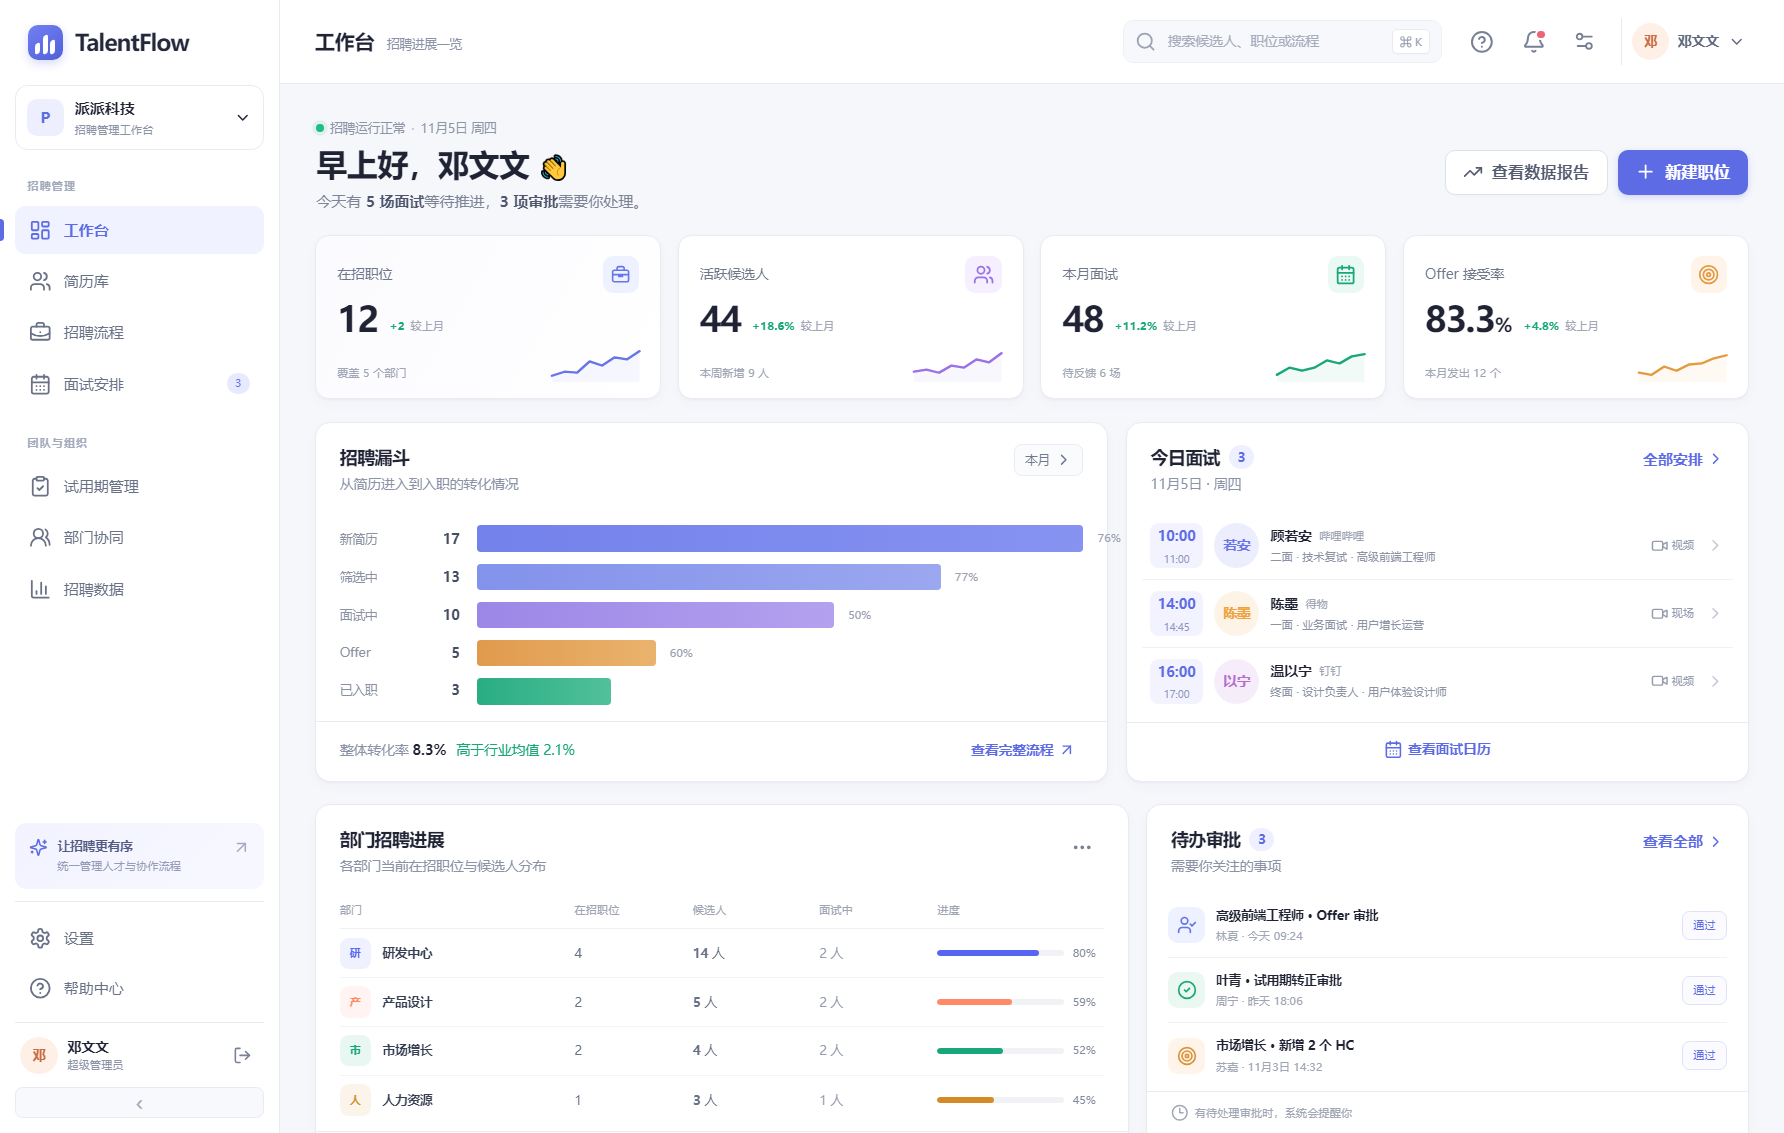
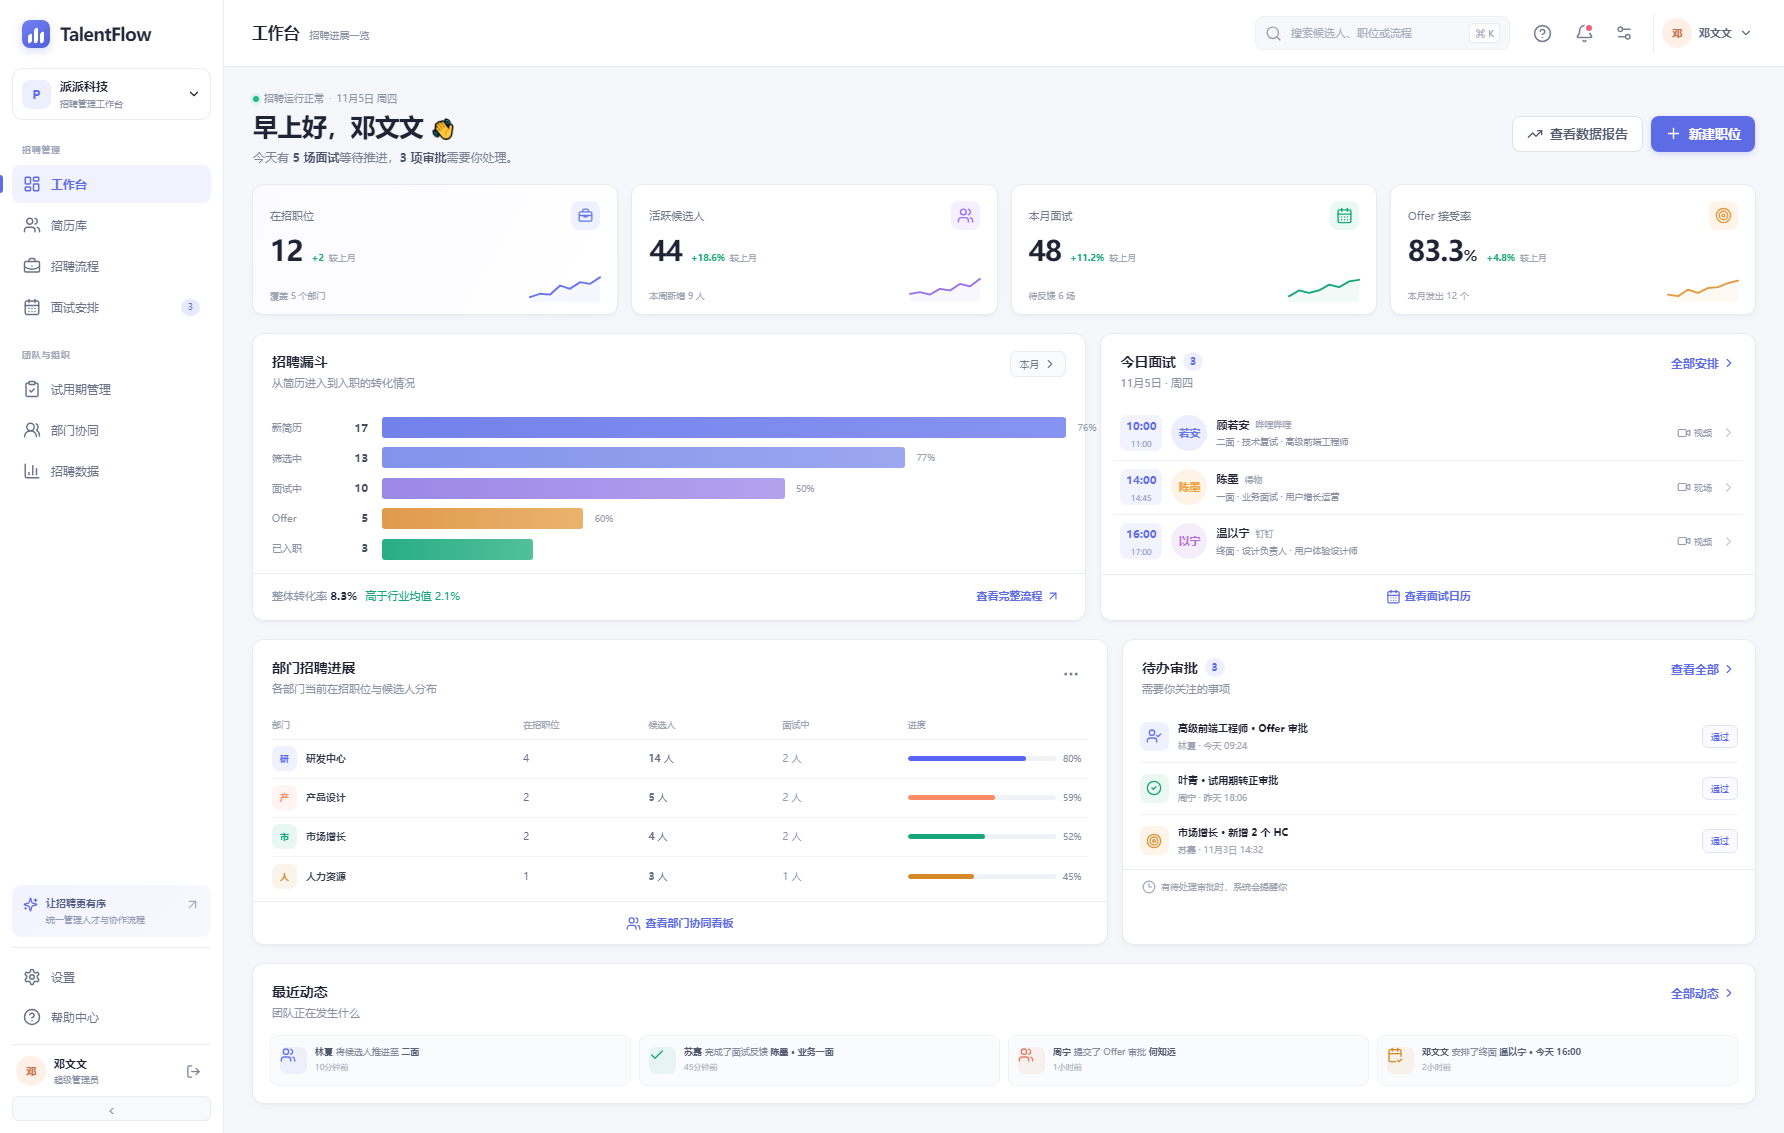
chore: finalize TalentFlow demo documentation

diff --git a/src/pages/Team.tsx b/src/pages/Team.tsx
@@ -14,7 +14,7 @@ export function Team({ onOpenCandidate }: TeamProps) {
   const dept = getDepartment(activeDept)!
   const deptCandidates = data.candidates.filter(c => c.departmentId === activeDept)
   const deptJobs = jobs.filter(j => j.departmentId === activeDept)
-  const members = [{name:'陈屿', role:'研发负责人', email:'chenyu@papa360.com', status:'在线', color:'#4D91D9'},{name:'林夏', role:'高级招聘专员', email:'linxia@papa360.com', status:'在线', color:'#D58A28'},{name:'唐越', role:'后端工程师', email:'tangyue@papa360.com', status:'忙碌', color:'#6675E8'},{name:'梁澄', role:'前端工程师', email:'liangcheng@papa360.com', status:'离线', color:'#19A77C'}]
+  const members = [{name:'陈屿', role:'研发负责人', email:'chenyu@example.com', status:'在线', color:'#4D91D9'},{name:'林夏', role:'高级招聘专员', email:'linxia@example.com', status:'在线', color:'#D58A28'},{name:'唐越', role:'后端工程师', email:'tangyue@example.com', status:'忙碌', color:'#6675E8'},{name:'梁澄', role:'前端工程师', email:'liangcheng@example.com', status:'离线', color:'#19A77C'}]
   return <div className="page-stack team-page">
     <div className="page-title-row"><div><div className="eyebrow">跨部门协作 <span className="eyebrow-separator">·</span> 5 个部门</div><h2>部门协同</h2><p>共享招聘进展，明确责任分工，让业务与 HR 同频决策。</p></div><div className="page-title-actions"><button className="button button-secondary" onClick={() => setShowInvite(true)}><UserPlus size={16} />邀请成员</button><button className="button button-primary"><Plus size={17} />新建部门</button></div></div>
 
@@ -47,5 +47,6 @@ export function Team({ onOpenCandidate }: TeamProps) {
 }
 
 function InviteModal({onClose,onInvite}:{onClose:()=>void;onInvite:()=>void}) {
-  return <div className="modal-backdrop" onMouseDown={onClose}><div className="modal" onMouseDown={e=>e.stopPropagation()}><div className="modal-header"><div><span className="modal-icon"><UserPlus size={18}/></span><div><h3>邀请协作成员</h3><p>邀请业务同事加入招聘协作</p></div></div><button className="icon-button" onClick={onClose}><X size={18}/></button></div><div className="modal-body"><label className="form-field"><span>成员邮箱</span><input placeholder="name@papa360.com" autoFocus/><small>支持输入多个邮箱，用逗号分隔</small></label><label className="form-field"><span>协作角色</span><select><option>面试官</option><option>招聘协作人</option><option>部门管理员</option></select></label><label className="form-field"><span>权限范围</span><select><option>仅查看分配给我的候选人</option><option>查看本部门全部候选人</option><option>查看全部候选人</option></select></label><div className="form-notice"><Send size={15}/><span>邀请成员将通过邮件收到加入链接。</span></div></div><div className="modal-footer"><button className="button button-secondary" onClick={onClose}>取消</button><button className="button button-primary" onClick={onInvite}>发送邀请</button></div></div></div>
+  return <div className="modal-backdrop" onMouseDown={onClose}><div className="modal" onMouseDown={e=>e.stopPropagation()}><div className="modal-header"><div><span className="modal-icon"><UserPlus size={18}/></span><div><h3>邀请协作成员</h3><p>邀请业务同事加入招聘协作</p></div></div><button className="icon-button" onClick={onClose}><X size={18}/></button></div><div className="modal-body"><label className="form-field"><span>成员邮箱</span><input placeholder="name@example.com" autoFocus/><small>支持输入多个邮箱，用逗号分隔</small></label><label className="form-field"><span>协作角色</span><select><option>面试官</option><option>招聘协作人</option><option>部门管理员</option></select></label><label className="form-field"><span>权限范围</span><select><option>仅查看分配给我的候选人</option><option>查看本部门全部候选人</option><option>查看全部候选人</option></select></label><div className="form-notice"><Send size={15}/><span>邀请成员将通过邮件收到加入链接。</span></div></div><div className="modal-footer"><button className="button button-secondary" onClick={onClose}>取消</button><button className="button button-primary" onClick={onInvite}>发送邀请</button></div></div></div>
 }
+

diff --git a/src/components/SettingsModal.tsx b/src/components/SettingsModal.tsx
@@ -8,10 +8,11 @@ export function SettingsModal({ onClose, onReset }: { onClose: () => void; onRes
   return <div className="modal-backdrop" onMouseDown={onClose}><div className="modal settings-modal" onMouseDown={e=>e.stopPropagation()}>
     <div className="modal-header"><div><span className="modal-icon"><Shield size={18}/></span><div><h3>系统设置</h3><p>管理工作区与招聘配置</p></div></div><button className="icon-button" onClick={onClose}><X size={18}/></button></div>
     <div className="settings-layout"><aside className="settings-nav"><button className={tab==='profile'?'active':''} onClick={()=>setTab('profile')}><UserRound size={16}/>个人资料</button><button className={tab==='organization'?'active':''} onClick={()=>setTab('organization')}><Database size={16}/>工作区</button><button className={tab==='pipeline'?'active':''} onClick={()=>setTab('pipeline')}><Check size={16}/>招聘流程</button></aside><div className="settings-content">
-      {tab==='profile'&&<><h3>个人资料</h3><p className="settings-desc">这些信息会展示给招聘协作成员。</p><div className="settings-profile"><span className="avatar avatar-xl avatar-warm">邓</span><button className="button button-secondary button-sm">更换头像</button></div><div className="form-grid"><label className="form-field"><span>姓名</span><input defaultValue="邓文文"/></label><label className="form-field"><span>职位</span><input defaultValue="招聘负责人"/></label></div><label className="form-field"><span>邮箱</span><input defaultValue="dengwenwen@papa360.com"/></label><label className="form-field"><span>所在部门</span><select defaultValue="人力资源"><option>人力资源</option><option>研发中心</option></select></label></>}
+      {tab==='profile'&&<><h3>个人资料</h3><p className="settings-desc">这些信息会展示给招聘协作成员。</p><div className="settings-profile"><span className="avatar avatar-xl avatar-warm">邓</span><button className="button button-secondary button-sm">更换头像</button></div><div className="form-grid"><label className="form-field"><span>姓名</span><input defaultValue="邓文文"/></label><label className="form-field"><span>职位</span><input defaultValue="招聘负责人"/></label></div><label className="form-field"><span>邮箱</span><input defaultValue="dengwenwen@example.com"/></label><label className="form-field"><span>所在部门</span><select defaultValue="人力资源"><option>人力资源</option><option>研发中心</option></select></label></>}
       {tab==='organization'&&<><h3>工作区设置</h3><p className="settings-desc">当前为本地演示工作区，数据保存在浏览器中。</p><div className="workspace-setting"><span className="workspace-logo">P</span><div><strong>派派科技</strong><span>5 个部门 · 12 个在招职位</span></div></div><div className="form-field"><span>工作区名称</span><input defaultValue="派派科技"/></div><div className="danger-box"><div><strong>重置演示数据</strong><span>恢复候选人、面试与试用期示例数据。</span></div><button className="button button-secondary button-sm" onClick={()=>{onReset();toast('演示数据已重置')}}><RotateCcw size={14}/>重置数据</button></div></>}
       {tab==='pipeline'&&<><h3>招聘流程</h3><p className="settings-desc">自定义候选人从投递到入职的阶段。</p><div className="pipeline-setting-list">{[{name:'新简历',color:'#6E83E9'},{name:'筛选中',color:'#E4A03D'},{name:'面试中',color:'#9A72DE'},{name:'Offer',color:'#E47D59'},{name:'已入职',color:'#22A97B'}].map((stage,i)=><div key={stage.name}><span className="drag-handle">⋮⋮</span><i style={{background:stage.color}}/><strong>{stage.name}</strong><span className="stage-count">{i===4?'终态':'普通阶段'}</span></div>)}</div></>}
     </div></div>
     <div className="modal-footer"><button className="button button-primary" onClick={onClose}>完成</button></div>
   </div></div>
 }
+

diff --git a/README.md b/README.md
@@ -1,16 +1,17 @@
 # TalentFlow 招聘管理
 
-一套面向招聘团队的中文工作台，覆盖从候选人入库、招聘流程推进、面试安排到试用期跟踪和招聘数据分析的完整链路。
+TalentFlow 是一套面向招聘团队的中文招聘管理本地演示系统，覆盖从人才入库、招聘流程推进、面试协同、试用期跟进到招聘数据分析的完整链路。界面与交互为原创实现，功能设计参考主流招聘管理系统。
 
-## 功能
+## 功能范围
 
-- 招聘工作台：关键指标、待办事项和近期动态
-- 简历库：搜索、筛选、候选人详情与新增候选人
-- 招聘流程：按阶段管理和推进候选人
-- 面试安排：创建面试、协调时间并记录反馈
-- 试用期管理：跟进新员工成长状态
-- 部门协同：查看业务团队与招聘协作情况
-- 招聘数据：用图表呈现渠道、效率和转化数据
+- **招聘工作台**：招聘指标、招聘漏斗、今日面试、部门进展、待办审批与团队动态
+- **简历库**：关键词搜索、阶段/部门/职位/来源筛选、列表与卡片视图、分页、批量选择、新增候选人、候选人详情
+- **招聘流程**：分阶段看板、拖拽推进候选人、查看候选人详情
+- **面试安排**：按日期查看面试、新建面试、记录面试反馈、查看面试官负载
+- **试用期管理**：员工筛选、目标进度、试用期详情、发起转正评审、转正操作
+- **部门协同**：查看部门招聘进展、候选人、协作动态、邀请成员
+- **招聘数据**：招聘效率、渠道来源、转化漏斗与趋势展示
+- **通用能力**：全局搜索、侧栏折叠、Toast 提示、演示数据重置
 
 ## 技术栈
 
@@ -26,17 +27,26 @@ npm install
 npm run dev
 ```
 
-开发服务器默认运行在 `http://localhost:4173`。
+启动后访问：`http://localhost:4173`
 
-## 构建
+演示系统仅面向桌面端，建议使用 **1440px 或更宽的浏览器窗口**；最小支持宽度为 **1180px**。
+
+## 生产构建
 
 ```bash
 npm run build
 npm run preview
 ```
 
+## 数据与演示说明
+
+- 数据保存在浏览器 `localStorage`，存储键为 `talentflow-demo-v1`。
+- 新增候选人、阶段推进、面试安排与反馈、审批和转正操作会在当前浏览器中持久化。
+- 可在「设置」中重置演示数据，或清除该站点的浏览器本地存储。
+- 当前为纯前端原型，**没有后端数据库、用户认证、权限系统、邮件发送或日历同步**。
+- 「批量导入」「导出」「同步日历」「发送邮件」等入口仅用于展示产品交互，不代表已接入真实外部服务。
+- 建议在 Chrome / Edge 等现代浏览器中使用。
+
 ## 截图
 
 ![招聘工作台](screenshots/dashboard-2.png)
-
-![候选人详情](screenshots/candidate-drawer.png)
